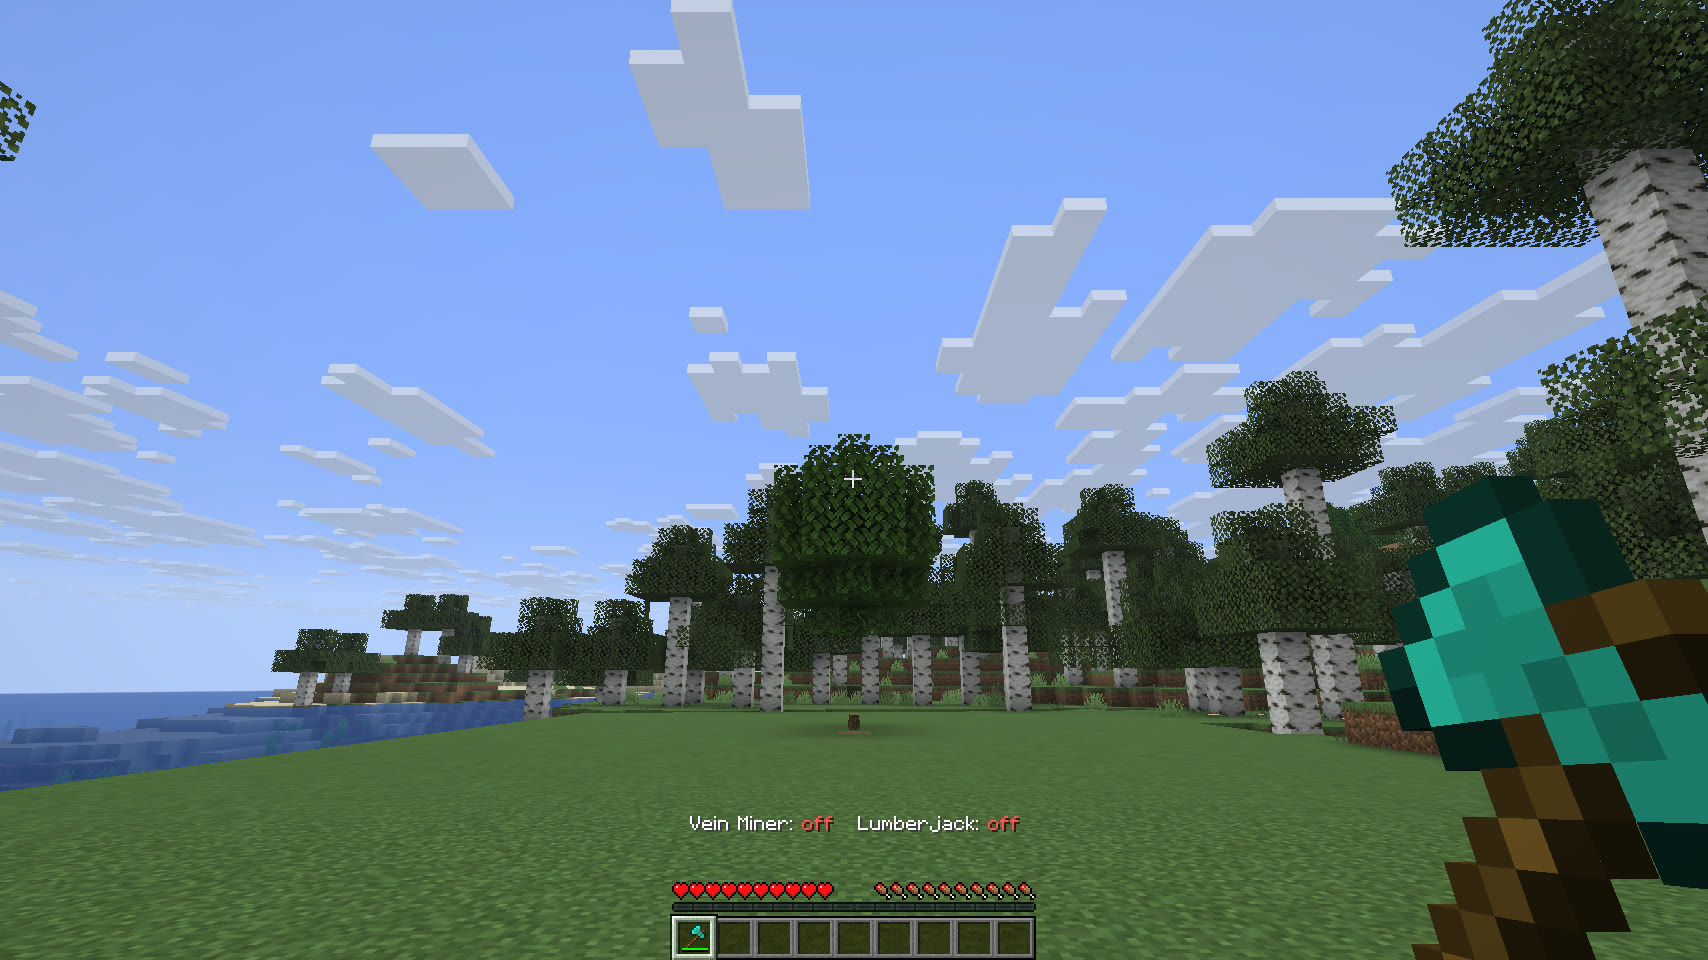
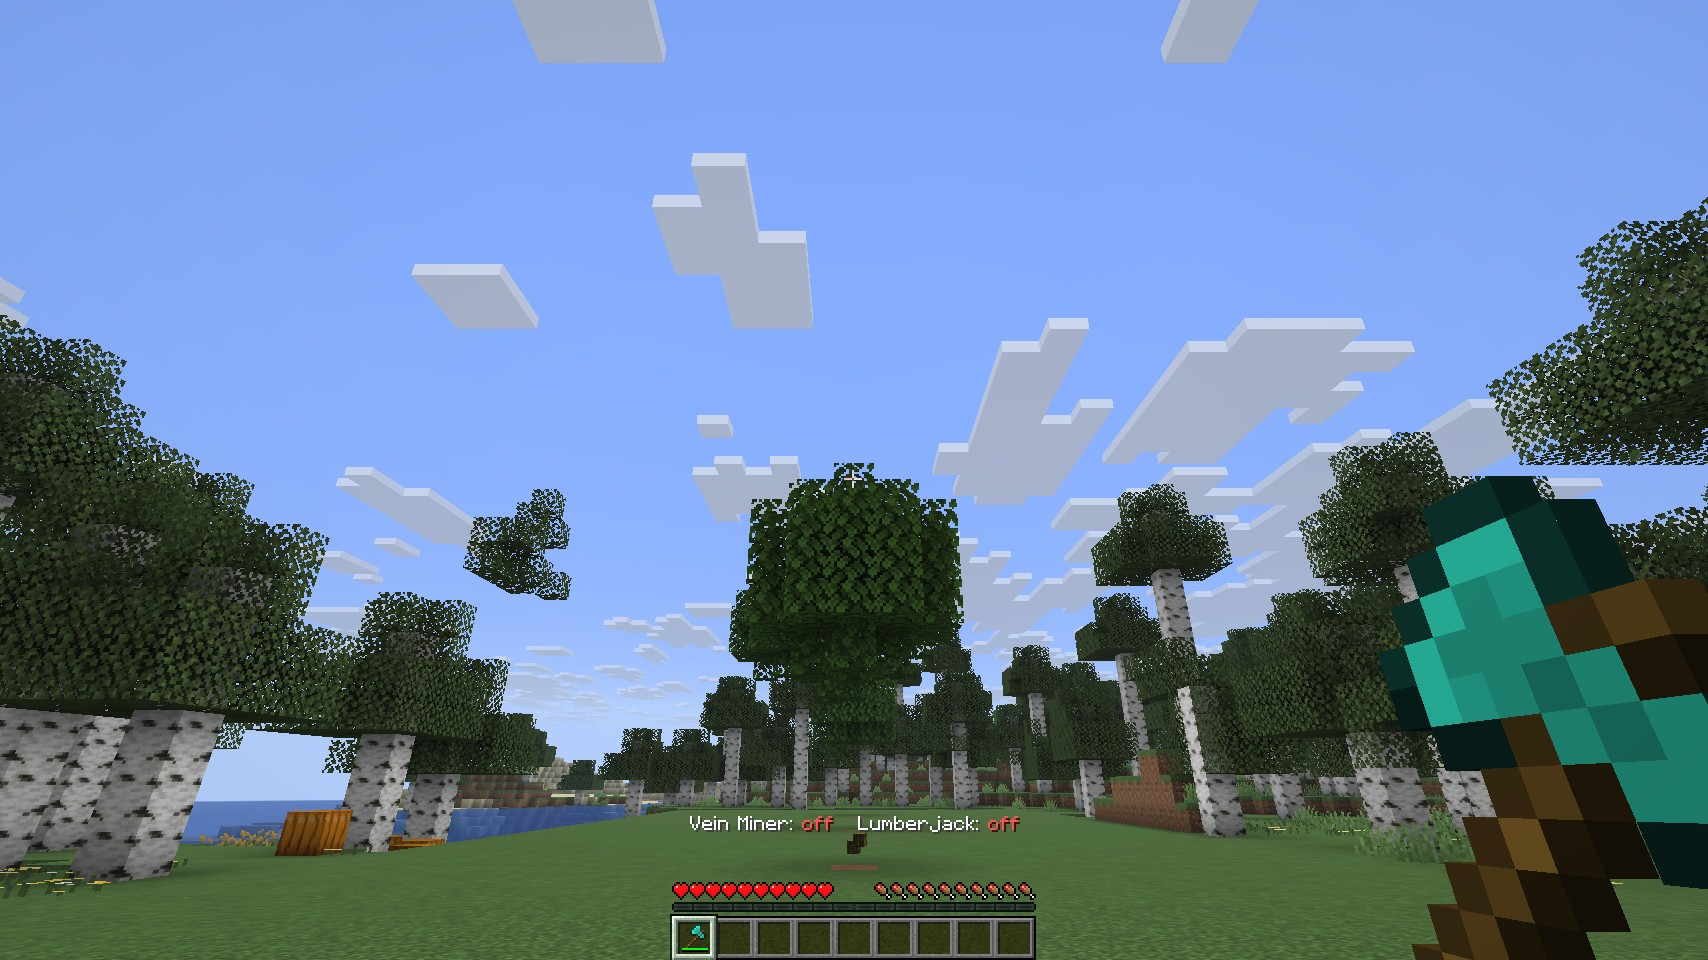
New screenshots for the project pages: no stray drops, the vein in a hillside, the settings and language screens of 1.0.1

diff --git a/src/main/java/io/github/vladeezyy/properveinminer/client/GalleryScene.java b/src/main/java/io/github/vladeezyy/properveinminer/client/GalleryScene.java
@@ -53,12 +53,22 @@ public final class GalleryScene {
         }
     }
 
+    /** Every dropped item and orb on the stage (flowers and grass the stage building knocked off) */
+    private static void clearDrops(ServerLevel level) {
+        var box = new net.minecraft.world.phys.AABB(stage).inflate(40);
+        level.getEntitiesOfClass(net.minecraft.world.entity.item.ItemEntity.class, box).forEach(e -> e.discard());
+        level.getEntitiesOfClass(net.minecraft.world.entity.ExperienceOrb.class, box).forEach(e -> e.discard());
+    }
+
+    /** The cut face of a hill: deepslate below, stone above, dirt and grass on top, stepping back like a slope */
     private static void oreWall(ServerLevel level) {
         BlockPos wall = stage.offset(7, 0, 0);
-        for (int dz = -5; dz <= 5; dz++) {
-            for (int dy = 0; dy < 7; dy++) {
-                for (int dx = 0; dx < 3; dx++) {
-                    set(level, wall.offset(dx, dy, dz), dy < 2 ? Blocks.DEEPSLATE : Blocks.STONE);
+        for (int dz = -9; dz <= 9; dz++) {
+            for (int dx = 0; dx < 8; dx++) {
+                int height = 9 + dx + (Math.abs(dz) > 6 ? -1 : 0);
+                for (int dy = 0; dy < height; dy++) {
+                    Block block = dy < 2 ? Blocks.DEEPSLATE : dy < height - 2 ? Blocks.STONE : dy < height - 1 ? Blocks.DIRT : Blocks.GRASS_BLOCK;
+                    set(level, wall.offset(dx, dy, dz), block);
                 }
             }
         }
@@ -97,12 +107,13 @@ public final class GalleryScene {
                 p.connection.teleport(stage.getX() - 2.5, stage.getY(), stage.getZ() + 0.5, -90.0F, -6.0F);
             });
             case 45 -> mc.options.hideGui = true;
+            case 95 -> server(mc, p -> clearDrops((ServerLevel) p.level()));
             case 100 -> shot(mc, "vein_before");
             case 105 -> server(mc, p -> p.gameMode.destroyBlock(firstOre));
             case 125 -> shot(mc, "vein_after");
             case 130 -> server(mc, p -> {
                 ServerLevel level = (ServerLevel) p.level();
-                level.getEntitiesOfClass(net.minecraft.world.entity.item.ItemEntity.class, new net.minecraft.world.phys.AABB(stage).inflate(30)).forEach(e -> e.discard());
+                clearDrops(level);
                 clear(level);
                 trunk = stage.offset(9, 0, 0);
                 var feature = level.registryAccess().lookupOrThrow(Registries.CONFIGURED_FEATURE).getValueOrThrow(TreeFeatures.FANCY_OAK);
@@ -111,8 +122,9 @@ public final class GalleryScene {
                 }
                 p.setItemInHand(InteractionHand.MAIN_HAND, new ItemStack(Items.DIAMOND_AXE));
                 // further back and looking up a little: the whole tree in view
-                p.connection.teleport(stage.getX() - 12.5, stage.getY() + 1, stage.getZ() + 0.5, -90.0F, -16.0F);
+                p.connection.teleport(stage.getX() - 7.5, stage.getY(), stage.getZ() + 0.5, -90.0F, -24.0F);
             });
+            case 185 -> server(mc, p -> clearDrops((ServerLevel) p.level()));
             case 190 -> shot(mc, "tree_before");
             case 195 -> server(mc, p -> p.gameMode.destroyBlock(trunk));
             case 215 -> shot(mc, "tree_after");
